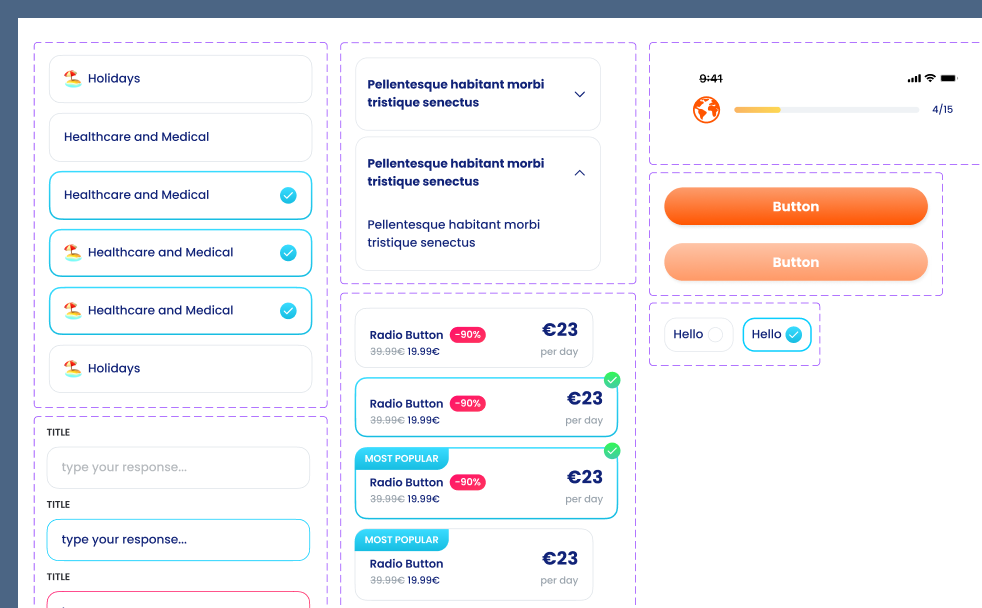
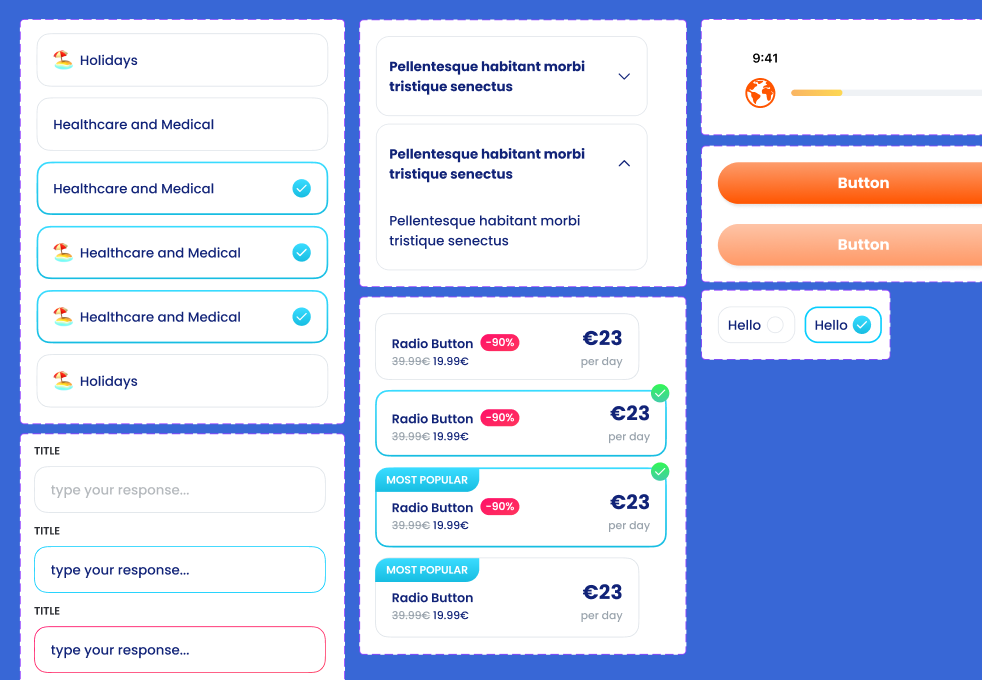
mondly images and text fixes

diff --git a/content/projects/mondly/index.md b/content/projects/mondly/index.md
@@ -29,9 +29,11 @@ On 2022 Mondly got acquired by Pearson, giving the Product team a chance for a b
 
 During my stay at Mondly, making AB Tests about the performance of the Old vs. the New Design was important to validate with data the development of the rebrand and plan the marketing strategies for this design transition.
 
-Before I joined the team, the product designers put in place a detailed Design System that served as base for all the future assets we developed on the way. I collaborated closely with one of my colleagues on the creation of a Styleguide in Notion, were we documented all the important aspects of the New Mondly Brand.
+Before I joined the team, the product designers put in place a detailed Design System that served as base for all the future assets we developed on the way. I collaborated closely with one of my colleagues on the creation of a Styleguide in Notion, were we documented the details of the New Mondly Brand and its usage.
 
-<<STYLEGDUIDE FIGMA SCREENSHOT>>
+![Offer page](images/styleguide-components.png)
+
+<p class="photo-footnote">Glimpse to the Offer Page redesign</p>
 
 ### Mondly Web & Marketing
 
@@ -47,7 +49,7 @@ Some of the tests we made included the redesign of the Offer page and the App an
 <p class="photo-footnote"> Screenshot from the light and dark version of the App Store images for iPhone 10</p>
 
 <div class="box-notes orange">
-  Light mode was introduced based on a benchmark research which show competitors choosing light backgrounds on their app store images. We organized several Design Team workshops to develop a light version of our new brand, that we could include on the A/B Testing.
+  Light mode was introduced based on a benchmark research that showed competitors choosing light backgrounds on their app store images. We organized several Design Team workshops to develop a light version of our new brand, that we could include on the A/B Testing.
 </div>
 
 ### Mondly Growth
@@ -63,5 +65,6 @@ The Growth team initiated several A/B tests aimed at increasing Premium Subscrip
 One major ongoing marketing campaign involved creating an onboarding flow with a questionnaire that guided users to a payment screen. I was responsible for the design and UX of this flow. The biggest challenge was developing a style that seamlessly blended elements of both the old and new Mondly branding.
 
 ![W2W Screens](images/w2w-screens.png)
+![W2W Screens](images/w2w-components.png)
 
 <p class="photo-footnote">Figma screenshot from the W2W campaing mockups</p>
